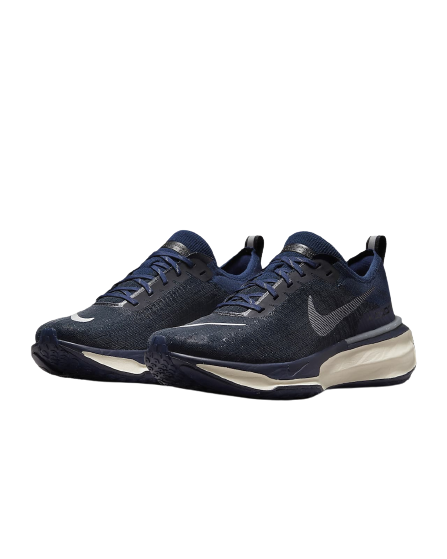
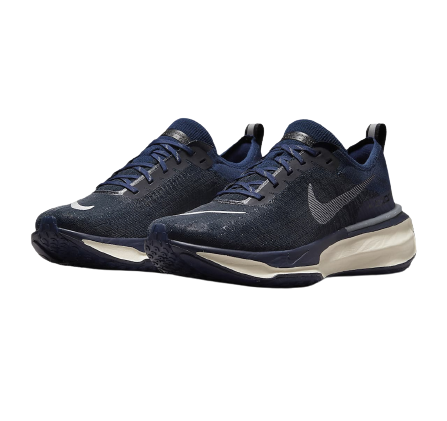
carroussel css modification

Changed region(s): [[0.0582, 0.2779, 0.9306, 0.7411]]

diff --git a/src/index.html b/src/index.html
@@ -5,7 +5,7 @@
   <title>Vesti</title>
   <base href="/">
   <meta name="viewport" content="width=device-width, initial-scale=1">
-  <link rel="icon" type="image/x-icon" href="favicon.ico">
+  <link rel="icon" type="image/x-icon" href="assets/icons/web-icon.jpg">
   <link rel="preconnect" href="https://fonts.gstatic.com">
   <link href="https://fonts.googleapis.com/css2?family=Roboto:wght@300;400;500&display=swap" rel="stylesheet">
   <link href="https://fonts.googleapis.com/icon?family=Material+Icons" rel="stylesheet">

diff --git a/src/app/pages/event-page/event-page.component.html b/src/app/pages/event-page/event-page.component.html
@@ -6,7 +6,7 @@
       <app-side-nav></app-side-nav>
     </mat-drawer>
 
-    <!-- Calendrier angular Material -->
+    <!-- Calendrier angular Material dateClass sont les date enregistrées commme évenement -->
     <div class="container-event">
       <mat-card class="demo-inline-calendar-card">
         <mat-calendar

diff --git a/src/app/pages/event-page/event-page.component.ts b/src/app/pages/event-page/event-page.component.ts
@@ -220,11 +220,11 @@ export class EventPageComponent {
     this.events.push(eventTemp);
     this.eventForm.reset();
 
-   
-  }
 
+  }
+  // recupere l'index de l'outfit pour enregistrez le bon outfit dans calendrier
   getIndexOutfitEvent(e:any)
-  {
+  {1
     this.outfitIndexChoosed = e;
 
   }

diff --git a/src/app/pages/event-page/event-page.component.css b/src/app/pages/event-page/event-page.component.css
@@ -103,6 +103,7 @@ button.my-date {
 
 .input-event{
   margin: 1rem;
+
 }
 
 .carrousel-container{
@@ -111,6 +112,12 @@ button.my-date {
 
 .sub-title{
   text-align: center;
+}
+
+.add-event-container{
+  display: flex;
+  flex-direction: column;
+  align-items: center;
 }
 
 

diff --git a/src/app/commons/carrousel/carrousel.component.css b/src/app/commons/carrousel/carrousel.component.css
@@ -6,7 +6,7 @@
 
 .carousel {
   margin-top: 2rem;
-  width: 200px;
+  width: 180px;
   margin-left: 2rem;
 
 }
